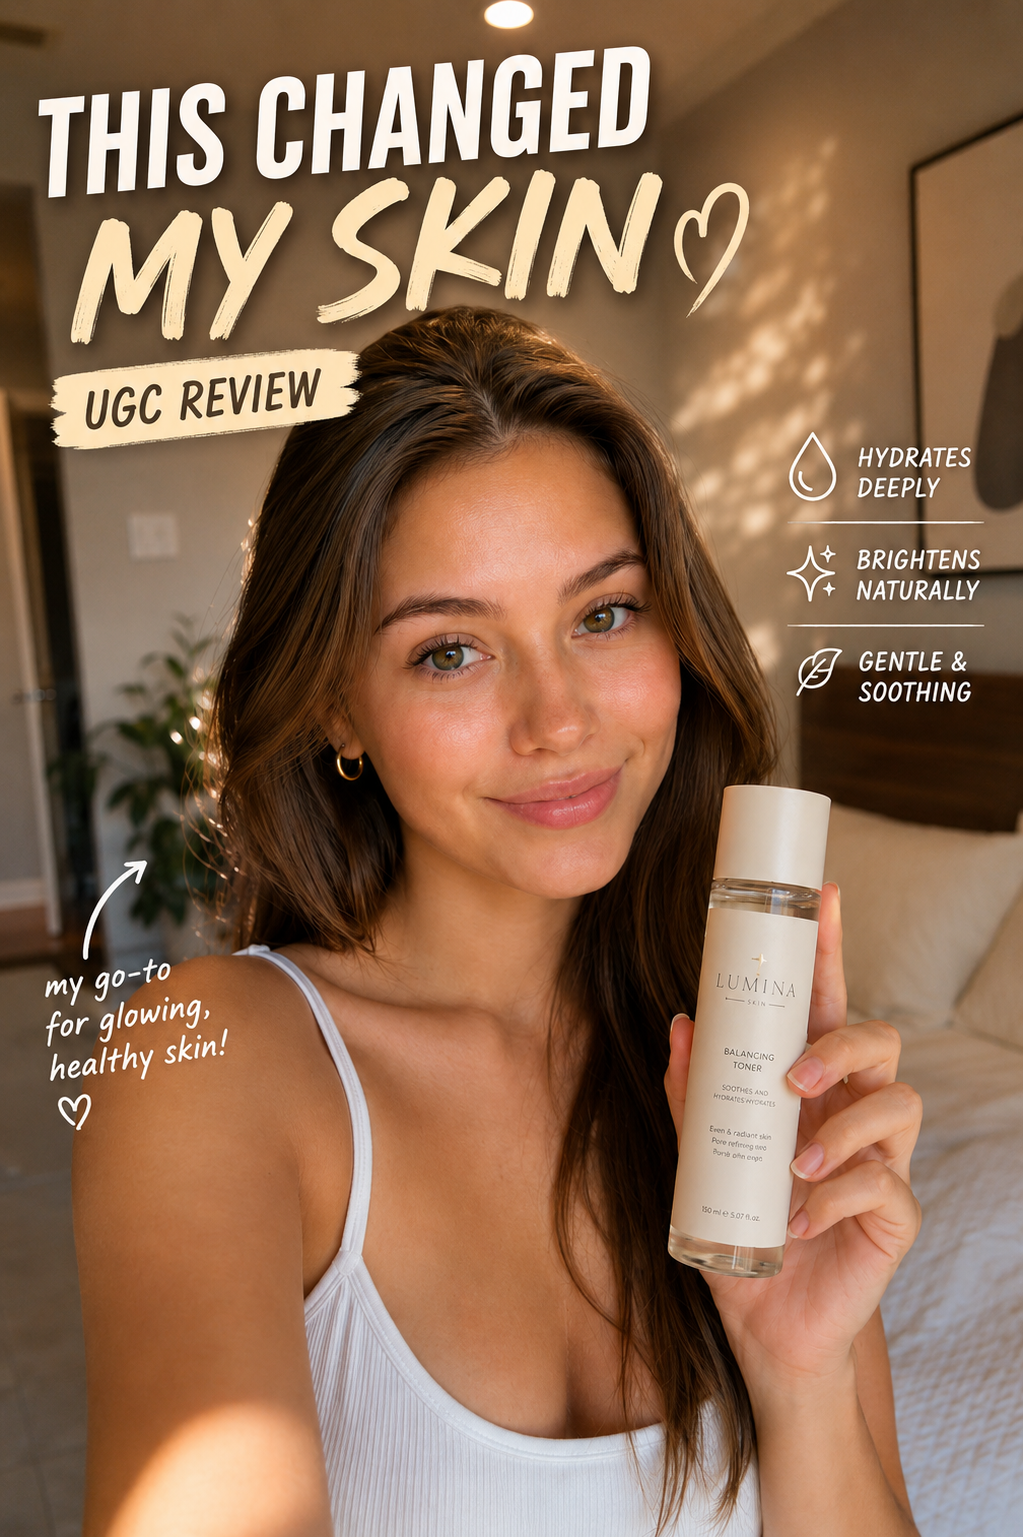
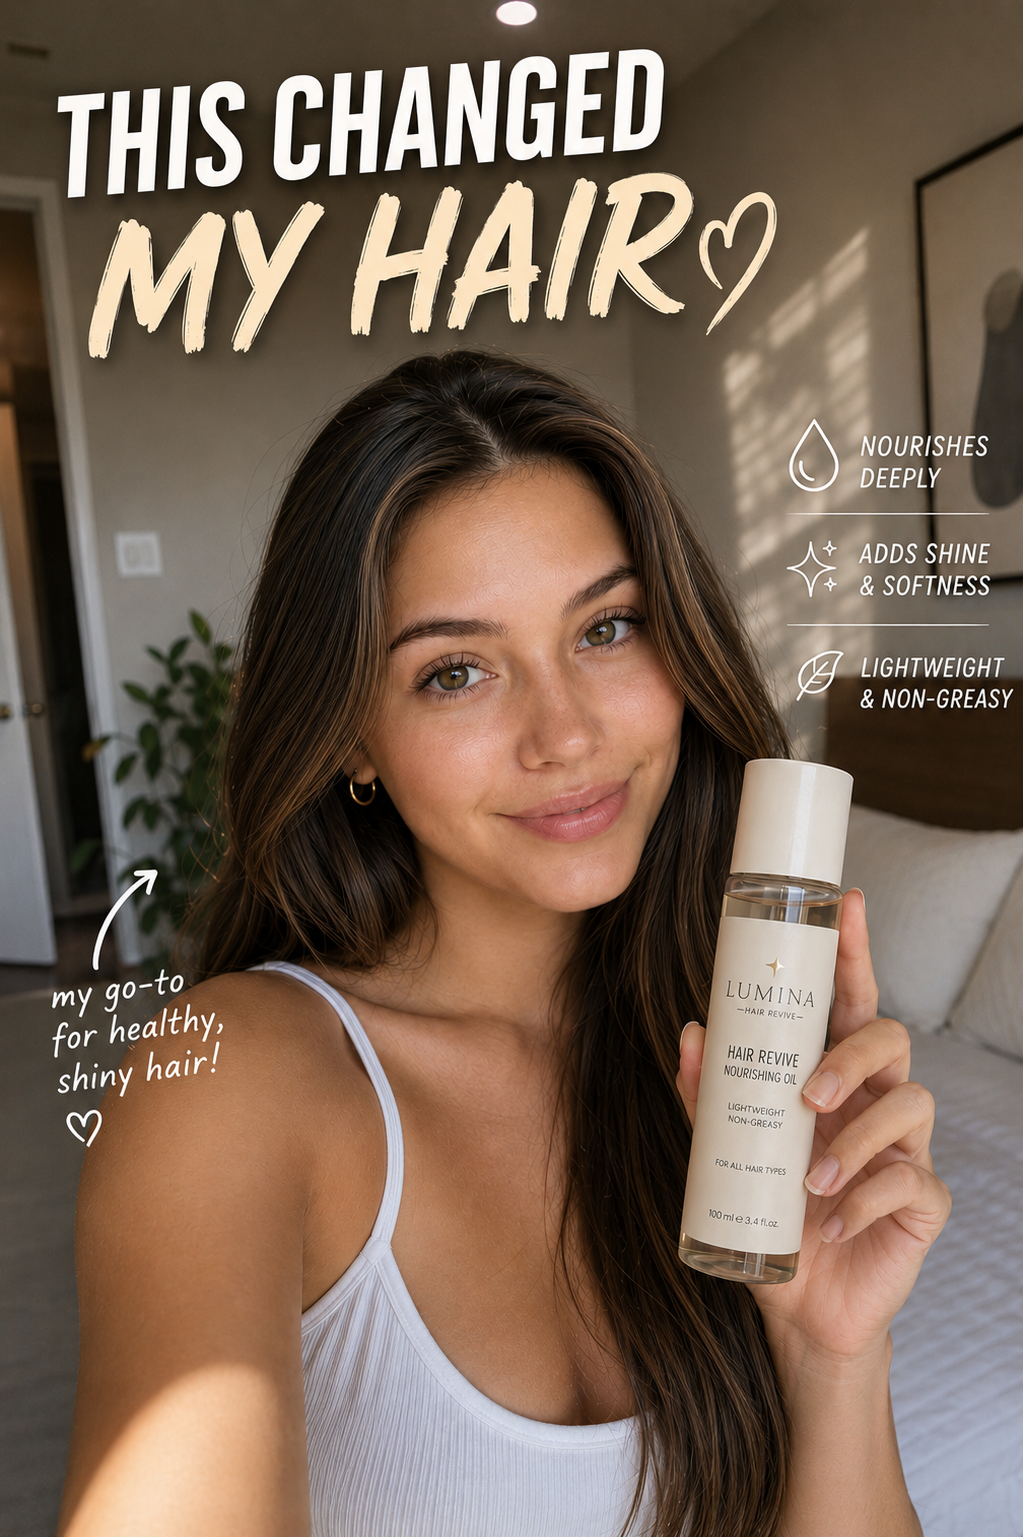
Update project thumbnails and card typography

diff --git a/index.html b/index.html
@@ -291,30 +291,30 @@
 
         <div class="project-grid">
           <article class="project project-one reveal">
-            <button class="project-media watch-project" type="button" data-video="videos/Sample1.mp4" data-poster="videos/Sample1-thumbnail.png" data-title="Skincare UGC Product Story" aria-label="Play Skincare UGC Product Story">
-              <img src="videos/Sample1-thumbnail.png" width="1023" height="1537" loading="lazy" decoding="async" alt="Skincare UGC video thumbnail">
+            <button class="project-media watch-project" type="button" data-video="videos/Sample1.mp4" data-poster="videos/Sample1-thumbnail.png" data-title="Hair Care Product Story" aria-label="Play Hair Care Product Story">
+              <img src="videos/Sample1-thumbnail.png" width="1023" height="1537" loading="lazy" decoding="async" alt="Creator holding a nourishing hair oil in a hair-care video thumbnail">
               <span class="project-index">01</span>
-              <span class="project-tags" aria-hidden="true"><i>UGC</i><i>AI Visuals</i><i>Social</i></span>
+              <span class="project-tags" aria-hidden="true"><i>Hair Care</i><i>AI Visuals</i><i>Social</i></span>
               <span class="play-button" aria-hidden="true"><i>&#8599;</i></span>
             </button>
             <div class="project-copy">
-              <p class="project-meta">AI UGC Advertisement <span>22 sec / 9:16</span></p>
-              <h3>Skincare UGC<br>Product Story</h3>
-              <p>A warm, creator-led skincare concept with testimonial-style messaging, clear benefit callouts, and social-first pacing.</p>
+              <p class="project-meta">Hair Care Advertisement <span>22 sec / 9:16</span></p>
+              <h3 class="project-title-compact">Hair Care<br>Product Story</h3>
+              <p>A warm, product-led hair-care concept with clear benefit callouts for shine, softness, and lightweight nourishment.</p>
               <ul><li>AI visual development</li><li>Editing and on-screen text</li><li>Sound design and color finish</li></ul>
             </div>
           </article>
 
           <article class="project project-two reveal">
-            <button class="project-media project-media-landscape watch-project" type="button" data-video="videos/Sample3.mp4" data-poster="videos/Sample3-thumbnail.png" data-title="The Future of Creators, Visualized" aria-label="Play The Future of Creators, Visualized">
-              <img src="videos/Sample3-thumbnail.png" width="1536" height="1024" loading="lazy" decoding="async" alt="AI creator economy explainer thumbnail">
+            <button class="project-media watch-project" type="button" data-video="videos/Sample3.mp4" data-poster="videos/Sample3-thumbnail.png" data-title="The Future of Creators, Visualized" aria-label="Play The Future of Creators, Visualized">
+              <img src="videos/Sample3-thumbnail.png" width="941" height="1672" loading="lazy" decoding="async" alt="AI creator economy explainer thumbnail">
               <span class="project-index">02</span>
               <span class="project-tags" aria-hidden="true"><i>Explainer</i><i>Motion</i><i>AI</i></span>
               <span class="play-button" aria-hidden="true"><i>&#8599;</i></span>
             </button>
             <div class="project-copy">
               <p class="project-meta">AI Explainer <span>40 sec / 9:16</span></p>
-              <h3>The Future of<br>Creators, Visualized</h3>
+              <h3 class="project-title-compact project-title-creators"><span>The Future of</span><span>Creators,</span><span>Visualized</span></h3>
               <p>A structured, fast-moving explanation of how AI is changing creator workflows, built with coherent generated imagery.</p>
               <ul><li>Concept and prompt development</li><li>Motion graphics and editing</li><li>Sound design</li></ul>
             </div>

diff --git a/script.js b/script.js
@@ -2073,34 +2073,34 @@
 
   const PROJECT_CASE_STUDIES = {
     "videos/Sample1.mp4": {
-      badge: "UGC Video",
-      summary: "A warm, creator-led skincare concept built to feel natural, trustworthy, and native to the social feed.",
+      badge: "Hair Care Ad",
+      summary: "A warm, product-led hair-care concept built around clear benefits and a polished social-first presentation.",
       duration: "22 sec",
-      method: "AI + UGC",
+      method: "AI + Editing",
       ratio: "9:16",
       role: "Video Editor + AI Video Specialist",
       deliverables: [
         "Concept and visual direction",
-        "AI-assisted UGC production",
+        "AI-assisted visual production",
         "Editing and on-screen text",
         "Sound design",
         "Color finishing",
         "Platform-ready delivery"
       ],
-      quote: "Authentic stories build real connections.",
-      overview: "This creator-led skincare video was designed to showcase the product in a warm, everyday setting. The edit balances natural delivery, clear benefit callouts, and social-first pacing so the product remains the visual focus.",
-      goal: "Build product trust and encourage action through relatable storytelling.",
-      audience: "Skincare and beauty audiences on social platforms.",
-      strategy: "Warm lifestyle imagery, benefit-led copy, creator-style pacing, and clear product emphasis.",
+      quote: "Clear benefits make the product story easy to remember.",
+      overview: "This hair-care video was designed to showcase a nourishing oil in a warm, everyday setting. The edit balances clear benefit callouts with social-first pacing so the product remains the visual focus.",
+      goal: "Present the product benefits clearly through approachable visual storytelling.",
+      audience: "Hair-care and beauty audiences on social platforms.",
+      strategy: "Warm lifestyle imagery, benefit-led copy, concise pacing, and clear product emphasis.",
       highlights: [
-        "Natural creator-first presentation",
+        "Warm product-led presentation",
         "Benefit-focused on-screen text",
         "Strong product visibility",
         "Warm sound and color finish",
         "Optimized vertical delivery"
       ],
-      tagline: "Turning Real Experiences into Powerful Stories",
-      taglineSub: "UGC content that connects, converts, and builds brand trust."
+      tagline: "Hair Care Benefits, Shaped into a Clear Story",
+      taglineSub: "A polished social video built around product clarity and memorable visual moments."
     },
     "videos/Sample3.mp4": {
       badge: "AI Explainer",

diff --git a/style.css b/style.css
@@ -6744,3 +6744,69 @@ html.hero-intro-complete .hero-description {
     white-space: normal !important;
   }
 }
+
+/* The first project uses a concise two-line title so its copy does not compete
+   with the typography already present in the updated hair-care thumbnail. */
+.project-copy h3.project-title-compact {
+  max-width: 13ch;
+  line-height: .98;
+  letter-spacing: -.05em;
+  text-wrap: balance;
+}
+
+.project-copy h3.project-title-creators {
+  max-width: none;
+  line-height: .96;
+}
+
+.project-title-creators span {
+  display: block;
+  white-space: nowrap;
+}
+
+@media (min-width: 1101px) {
+  .project-copy h3.project-title-compact {
+    max-width: 11ch;
+    line-height: .96;
+  }
+
+  .project-copy h3.project-title-creators {
+    max-width: none;
+  }
+}
+
+@media (max-width: 600px) {
+  .project-copy h3.project-title-compact {
+    max-width: 13ch;
+    line-height: .98;
+  }
+
+  .project-copy h3.project-title-creators {
+    max-width: none;
+  }
+}
+
+/* Keep every project title on one shared type scale. Title-specific classes
+   control only their line arrangement, never their visual size. */
+.project-copy h3,
+.project-copy h3.project-title-compact,
+.project-copy h3.project-title-creators {
+  font-size: clamp(1.85rem, 3vw, 2.4rem);
+  line-height: .96;
+}
+
+@media (min-width: 1101px) {
+  .project-copy h3,
+  .project-copy h3.project-title-compact,
+  .project-copy h3.project-title-creators {
+    font-size: clamp(1.8rem, 2.1vw, 2.4rem);
+  }
+}
+
+@media (max-width: 600px) {
+  .project-copy h3,
+  .project-copy h3.project-title-compact,
+  .project-copy h3.project-title-creators {
+    font-size: clamp(1.8rem, 8vw, 2.35rem);
+  }
+}

diff --git a/README.md b/README.md
@@ -24,6 +24,8 @@ The included `.nojekyll` file keeps the deployment as a plain static site. Canon
 ## Content maintenance
 
 - Project video paths and thumbnails are defined in `index.html` through `data-video` and `data-poster` attributes.
+- Keep every project-card title on the same shared font-size and line-height scale across desktop, tablet, and mobile. For longer titles, use intentional line breaks or title-specific layout classes, but never change the title's visual size relative to the other cards.
+- When adding a new project, match the existing portrait-card proportions, title placement, spacing, tags, play control, and responsive behavior so the full project row remains visually consistent.
 - The contact form intentionally opens a prefilled email draft; it does not claim to submit to a backend.
 - Replace the editable journey and revision-policy comments only when verified details are available.
 - Compress large MP4 files before production deployment when possible, while preserving filenames or updating every matching path.
